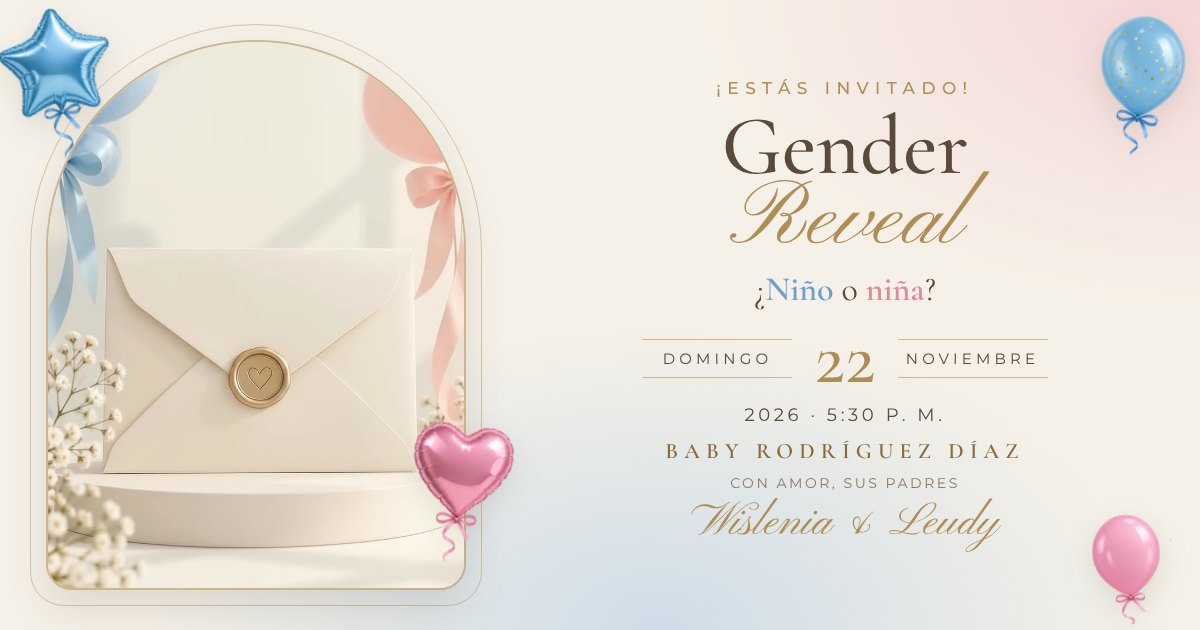
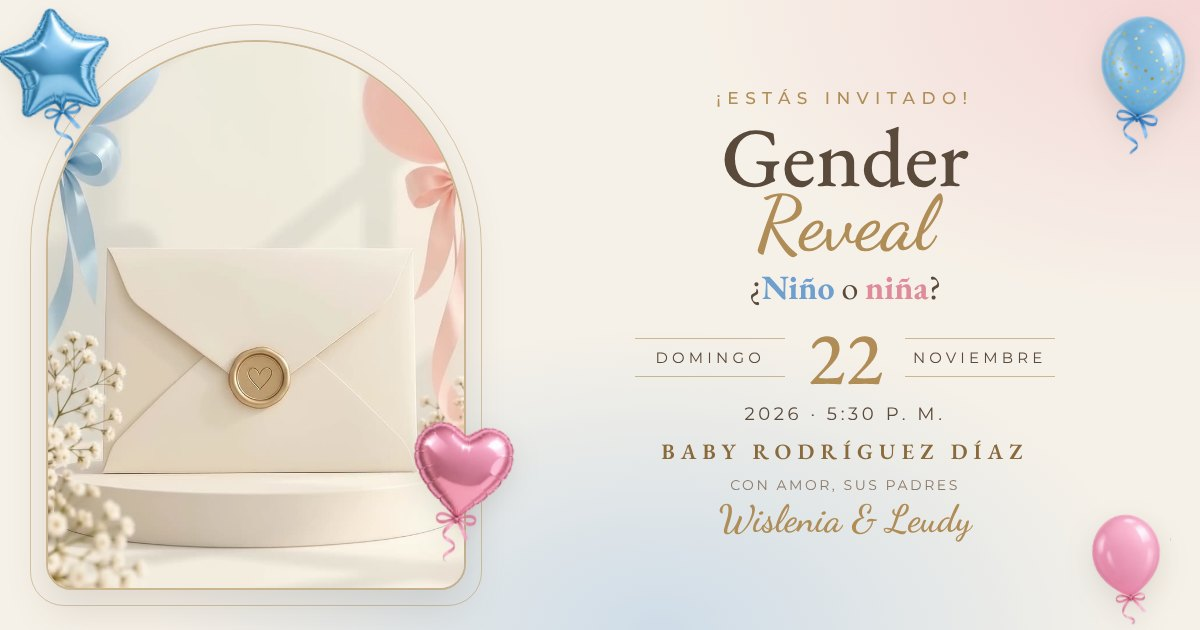
Add files via upload

diff --git a/estilos.css b/estilos.css
@@ -15,8 +15,8 @@
   --rosa: #f2b5c0;
   --rosa-osc: #df8b9c;
 
-  --f-script: 'Pinyon Script', cursive;
-  --f-serif: 'Cormorant Garamond', Georgia, serif;
+  --f-script: 'Dancing Script', 'Brush Script MT', cursive;
+  --f-serif: 'EB Garamond', Georgia, serif;
   --f-sans: 'Montserrat', system-ui, sans-serif;
 
   --alto: 100vh;
@@ -216,7 +216,8 @@ button { font: inherit; color: inherit; background: none; border: 0; cursor: poi
 }
 .pv-nombres {
   font-family: var(--f-script);
-  font-size: min(5.8vh, 10.5vw, 58px);
+  font-size: min(4.8vh, 9vw, 48px);
+  font-weight: 600;
   line-height: 1.15;
   color: var(--dorado-osc);
   white-space: nowrap;
@@ -270,13 +271,13 @@ button { font: inherit; color: inherit; background: none; border: 0; cursor: poi
 }
 .carta-titulo {
   font-family: var(--f-script);
-  font-weight: 400;
-  font-size: clamp(46px, 8.4vh, 78px);
+  font-weight: 600;
+  font-size: clamp(38px, 6.8vh, 62px);
   line-height: 1.05;
   color: var(--dorado);
   margin-top: .4vh;
 }
-.carta-titulo-sm { font-size: clamp(38px, 6.4vh, 58px); }
+.carta-titulo-sm { font-size: clamp(32px, 5.2vh, 46px); }
 .carta-sub {
   font-family: var(--f-serif);
   font-style: italic;
@@ -555,8 +556,8 @@ button { font: inherit; color: inherit; background: none; border: 0; cursor: poi
 }
 .bv-titulo {
   font-family: var(--f-script);
-  font-weight: 400;
-  font-size: clamp(50px, 13vw, 84px);
+  font-weight: 600;
+  font-size: clamp(40px, 10.5vw, 66px);
   line-height: 1.08;
   color: var(--dorado);
   text-shadow: 0 2px 22px rgba(255, 255, 255, .9);
@@ -665,8 +666,8 @@ button { font: inherit; color: inherit; background: none; border: 0; cursor: poi
 .portada-titulo span {
   display: block;
   font-family: var(--f-script);
-  font-weight: 400;
-  font-size: 1.05em;
+  font-weight: 600;
+  font-size: .88em;
   color: var(--dorado);
   margin-top: -.08em;
   letter-spacing: 0;
@@ -709,7 +710,7 @@ button { font: inherit; color: inherit; background: none; border: 0; cursor: poi
 
 .portada-padres { display: flex; flex-direction: column; align-items: center; margin-top: 22px; }
 .pp-eyebrow { font-size: 11px; letter-spacing: .3em; text-transform: uppercase; color: var(--tinta-suave); }
-.pp-nombres { font-family: var(--f-script); font-size: clamp(40px, 11vw, 52px); line-height: 1.15; color: var(--dorado); }
+.pp-nombres { font-family: var(--f-script); font-weight: 600; font-size: clamp(32px, 9vw, 42px); line-height: 1.15; color: var(--dorado); }
 .deco { position: absolute; z-index: 1; pointer-events: none; height: auto; filter: drop-shadow(0 10px 16px rgba(90, 74, 59, .14)); }
 .deco-1 { width: clamp(84px, 24vw, 140px); top: 4%;  left: -4%;  animation: mecer 6s ease-in-out infinite; }
 .deco-2 { width: clamp(78px, 22vw, 130px); top: 7%;  right: -5%; animation: mecer 7s ease-in-out -2s infinite; }
@@ -740,8 +741,8 @@ button { font: inherit; color: inherit; background: none; border: 0; cursor: poi
 }
 .titulo-seccion {
   font-family: var(--f-script);
-  font-weight: 400;
-  font-size: clamp(44px, 12vw, 60px);
+  font-weight: 600;
+  font-size: clamp(34px, 9.5vw, 48px);
   line-height: 1.1;
   color: var(--dorado);
   margin-top: 4px;
@@ -889,7 +890,7 @@ button { font: inherit; color: inherit; background: none; border: 0; cursor: poi
   box-shadow: 0 16px 32px rgba(90, 74, 59, .08);
   animation: aparecer .9s cubic-bezier(.2, .7, .2, 1) both;
 }
-.llevar-titulo { font-family: var(--f-script); font-weight: 400; font-size: 40px; color: var(--dorado); line-height: 1.1; }
+.llevar-titulo { font-family: var(--f-script); font-weight: 600; font-size: 32px; color: var(--dorado); line-height: 1.1; }
 .llevar-item {
   display: flex; align-items: center; gap: 14px;
   margin-top: 12px;
@@ -1091,7 +1092,7 @@ button { font: inherit; color: inherit; background: none; border: 0; cursor: poi
   animation: aparecer .9s ease both;
 }
 .rsvp-gracias img { width: 70px; height: auto; }
-.rsvp-gracias h3 { font-family: var(--f-script); font-weight: 400; font-size: 42px; color: var(--dorado); margin-top: 6px; }
+.rsvp-gracias h3 { font-family: var(--f-script); font-weight: 600; font-size: 34px; color: var(--dorado); margin-top: 6px; }
 .rsvp-gracias p { font-family: var(--f-serif); font-size: 18px; color: var(--tinta); margin-top: 4px; }
 
 .rsvp-simple { display: flex; flex-direction: column; align-items: center; gap: 22px; width: 100%; margin-top: 26px; }
@@ -1124,7 +1125,7 @@ button { font: inherit; color: inherit; background: none; border: 0; cursor: poi
 
 /* ---------- Pie ---------- */
 .pie { text-align: center; padding: 40px 20px calc(110px + env(safe-area-inset-bottom)); }
-.pie-firma { font-family: var(--f-script); font-size: 38px; color: var(--dorado); }
+.pie-firma { font-family: var(--f-script); font-weight: 600; font-size: 30px; color: var(--dorado); }
 .pie .portada-baby { margin-top: 6px; }
 .pie-corazones { margin-top: 12px; font-size: 18px; letter-spacing: .3em; }
 

diff --git a/index.html b/index.html
@@ -26,7 +26,7 @@
 
   <link rel="preconnect" href="https://fonts.googleapis.com">
   <link rel="preconnect" href="https://fonts.gstatic.com" crossorigin>
-  <link href="https://fonts.googleapis.com/css2?family=Cormorant+Garamond:ital,wght@0,400;0,500;0,600;1,400;1,500&family=Montserrat:wght@300;400;500;600&family=Pinyon+Script&display=swap" rel="stylesheet">
+  <link href="https://fonts.googleapis.com/css2?family=EB+Garamond:ital,wght@0,400;0,500;0,600;1,400;1,500&family=Montserrat:wght@300;400;500;600&family=Dancing+Script:wght@500;600;700&display=swap" rel="stylesheet">
 
   <link rel="preload" href="assets/intro.mp4" as="video" type="video/mp4">
   <link rel="stylesheet" href="estilos.css">
